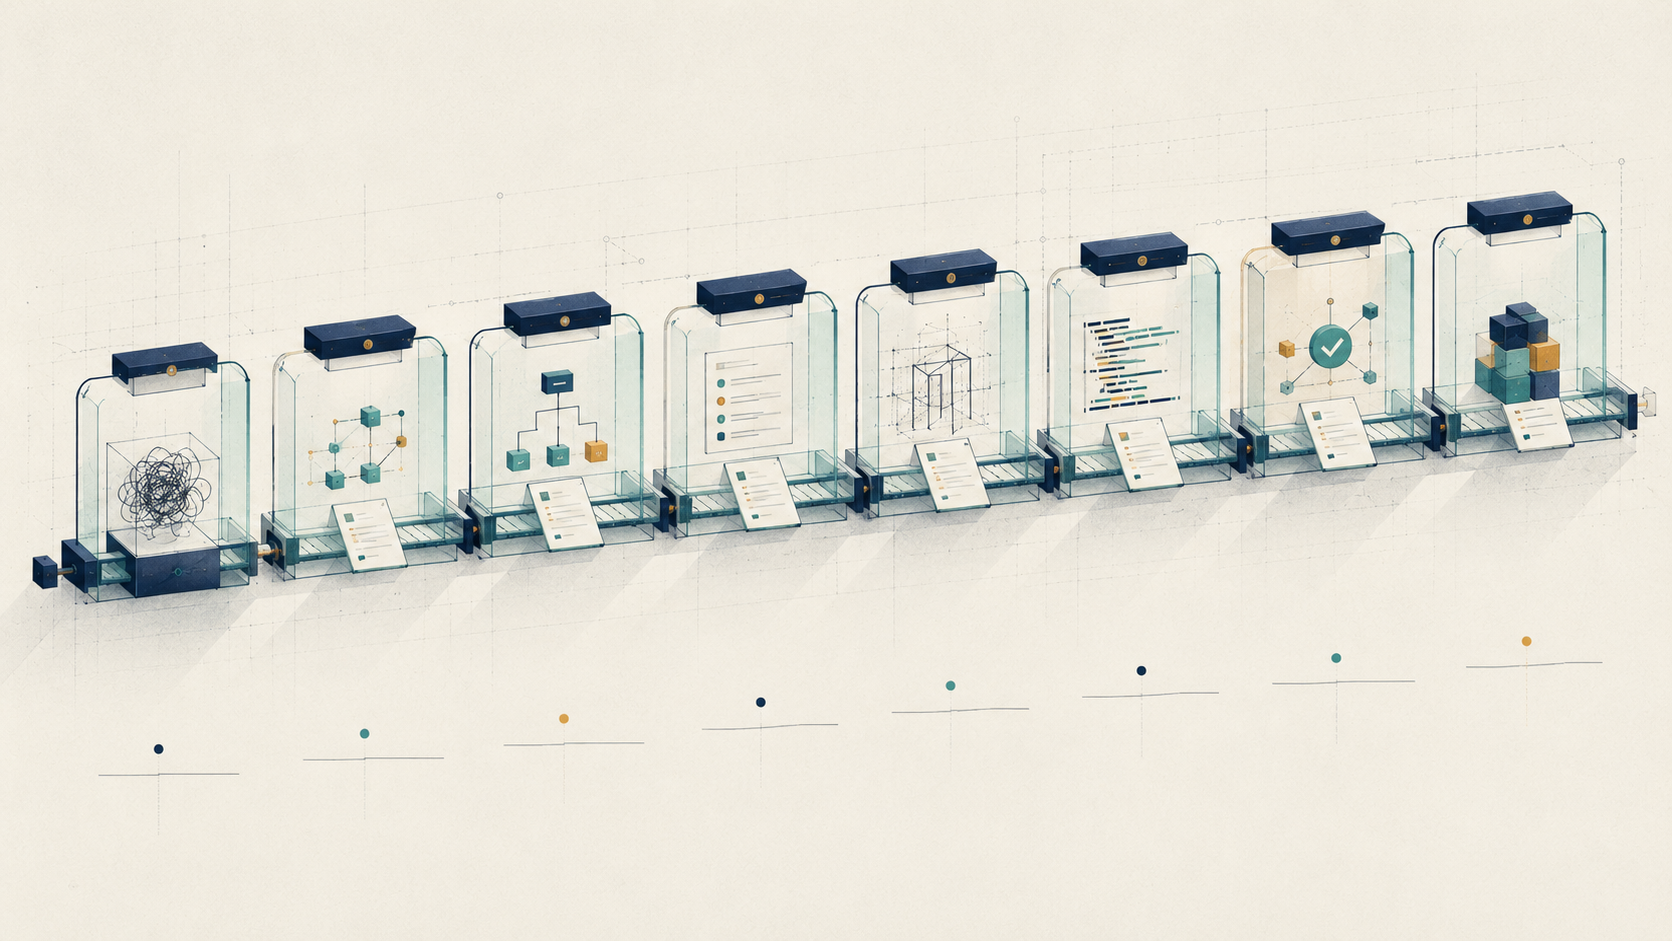
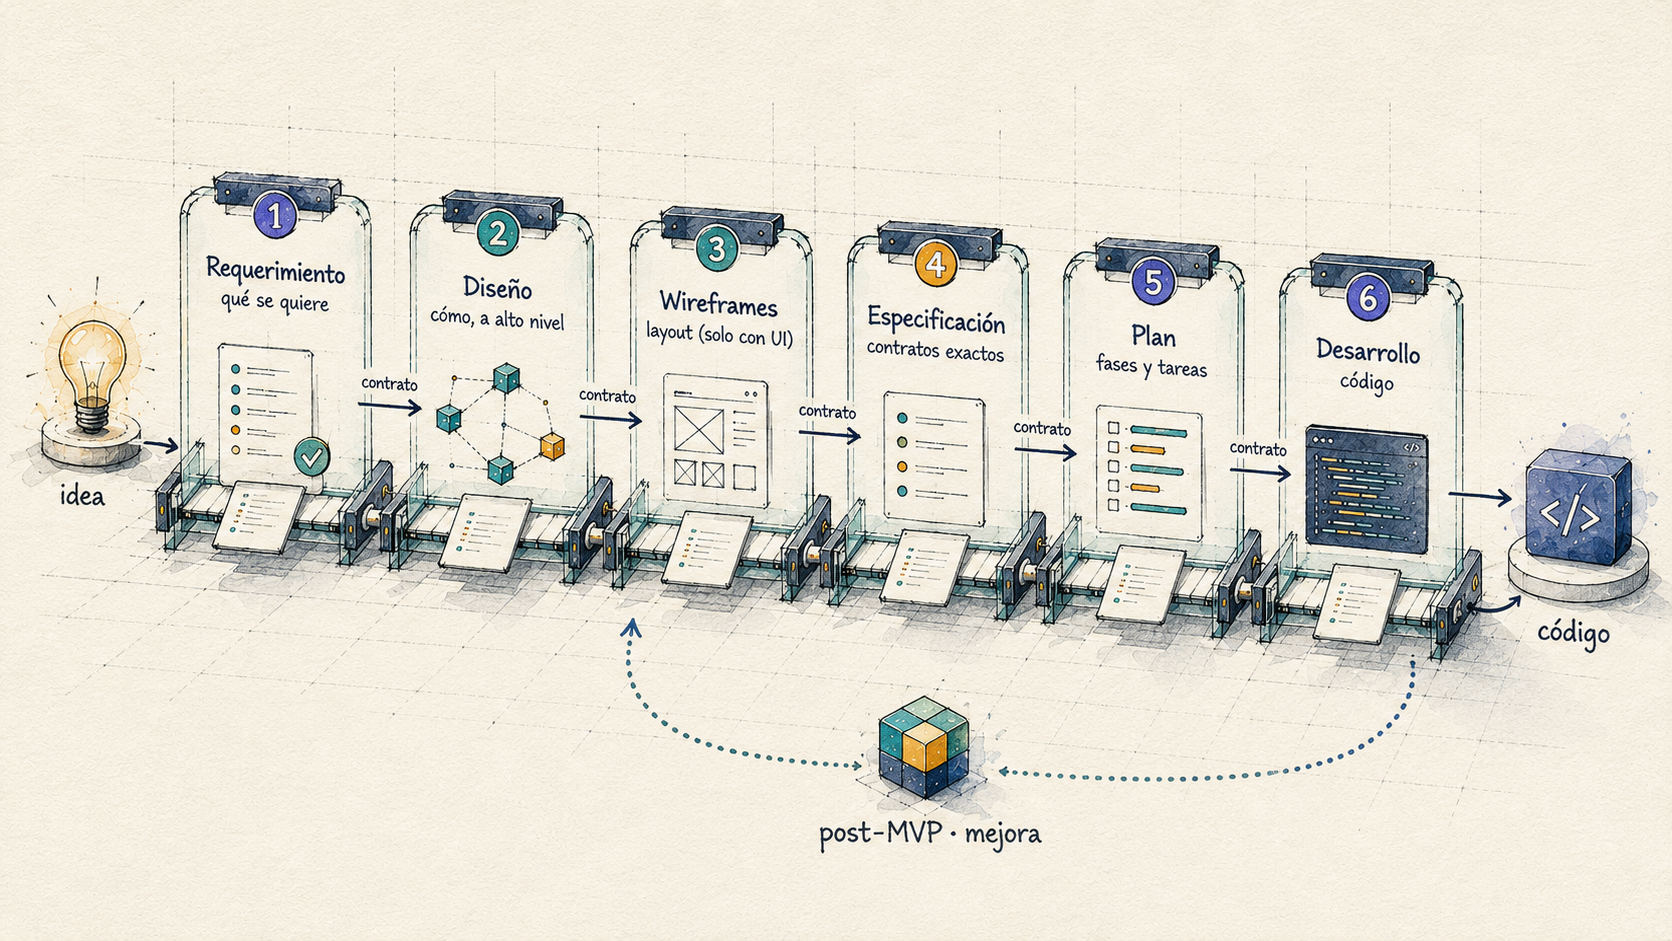
Limpia el repo de material interno y usa la imagen del pipeline
- Saca docs/assets/PROMPTS-IMAGENES.md del control de versiones (working
  doc interno; se conserva local, ahora en .gitignore)
- README: elimina los comentarios HTML con prompts de imágenes y la nota
  de mantenimiento interna
- Reemplaza el diagrama Mermaid por la nueva pipeline.png auto-explicativa
  (idea → 6 fases → código, con loop post-MVP); la tabla Consume→Produce
  queda como detalle textual

Changed region(s): [[0.0, 0.1849, 1.0, 0.7396], [0.4976, 0.7396, 0.622, 0.8937], [0.4043, 0.7705, 0.4354, 0.8013]]

diff --git a/README.md b/README.md
@@ -1,20 +1,3 @@
-<!--
-══════════════════════════════════════════════════════════════════════════════
- IMAGEN 1 · HERO / BANNER  (ancho completo, arriba de todo)
- Ubicación sugerida: docs/assets/hero.png  → descomentar la línea ![] de abajo
- PROMPT (para Midjourney / DALL·E / Ideogram — en inglés, rinde mejor):
- "Wide hero banner for an AI-assisted software development methodology called
-  'Spec-Design'. Clean editorial tech illustration: a single elegant line that
-  starts as a loose hand-drawn scribble on the left (a raw idea) and gradually
-  transforms, left to right, into crisp geometric blueprint lines and finally
-  into neat stacked code blocks on the right. Limited palette: deep indigo,
-  teal, warm amber accents on an off-white paper background, subtle blueprint
-  grid texture, fine precise linework, soft long shadows. Minimal, premium,
-  modern developer-tool aesthetic. No text. 21:9 aspect ratio, high detail."
- Alternativa estilo dibujo: misma idea pero "soft hand-drawn ink-and-watercolor
- sketch, architectural notebook style".
-══════════════════════════════════════════════════════════════════════════════
--->
 <div align="center">
 
 <img src="docs/assets/hero.png" alt="Spec-Design Harness" width="100%">
@@ -55,59 +38,9 @@ A diferencia de otras herramientas spec-driven, este harness aporta cinco cosas 
 - **🧠 Memoria trazable.** Una bitácora con referencia cruzada (`B-007 → ADR-2 / RF-5 / tarea F2-T3`) registra el porqué de cada decisión, sobreviviendo entre sesiones.
 - **🛡️ Calidad sin perder la disciplina.** Cada skill trae una tabla **anti-racionalización** (excusa → realidad) que desarma los atajos típicos del modelo. Y la calidad transversal (seguridad, accesibilidad, performance, testing) vive como **referencias consultables** + **personas de revisión** (`revisor-codigo`, `auditor-seguridad`) que el gate invoca — opcionales, sin convertir el harness en un catálogo.
 
-<!--
-══════════════════════════════════════════════════════════════════════════════
- IMAGEN 2 · DIAGRAMA DEL PIPELINE  (el visual central — va aquí)
- Ubicación sugerida: docs/assets/pipeline.png
- PROMPT (en inglés):
- "Clean isometric technical illustration of a software pipeline drawn as an
-  assembly line of connected translucent glass panels, left to right, 8 stations.
-  Each station is a distinct labeled module representing a phase of work that
-  hands a document to the next. Style: editorial developer-tool aesthetic, thin
-  precise linework, limited palette of deep indigo + teal + warm amber on
-  off-white, subtle blueprint grid in the background, soft long shadows, gentle
-  depth. Leave clear empty space under each station for a caption. No readable
-  text inside the art. 16:9, premium, high detail."
- Alternativa dibujo: "hand-drawn architect's notebook diagram, ink lines with
-  light watercolor fills, arrows connecting labeled boxes".
-══════════════════════════════════════════════════════════════════════════════
--->
 ## 🌟 El pipeline
 
 <p align="center"><img src="docs/assets/pipeline.png" alt="El pipeline de fases" width="820"></p>
-
-```mermaid
-flowchart TD
-    idea([💡 idea cruda]) --> init([⚙️ iniciar-harness])
-    init --> f1
-
-    subgraph DOC ["📐 DOCUMENTACIÓN · altitud decreciente"]
-        direction TB
-        f1["1 · refinar-requerimiento — qué se quiere"]
-        f2["2 · documento-diseno — cómo, a alto nivel"]
-        f3["3 · wireframes (solo con UI) — layout y navegación"]
-        f4["4 · especificacion-tecnica — contratos exactos"]
-        f1 --> f2 --> f3 --> f4
-    end
-
-    subgraph BUILD ["🔨 CONSTRUCCIÓN"]
-        direction TB
-        f5["5 · plan-implementacion — Fases → Tareas + control"]
-        f6["6 · desarrollo — 💻 código"]
-        f5 --> f6
-    end
-
-    f4 --> f5
-    f6 --> bl[("BACKLOG.md · cola viva del producto")]
-    bl -.->|"/mejora · rigor adaptativo (tracks A/B/C/D)"| f2
-
-    classDef doc fill:#eef2ff,stroke:#4f46e5,color:#1e1b4b;
-    classDef build fill:#ecfeff,stroke:#0d9488,color:#134e4a;
-    classDef anchor fill:#fef3c7,stroke:#b45309,color:#7c2d12;
-    class f1,f2,f3,f4 doc;
-    class f5,f6 build;
-    class idea,init,bl anchor;
-```
 
 <sub>Cada flecha es un **handoff con contrato fijo**: lo que una fase produce es exactamente lo que la siguiente consume. La fase de wireframes se omite sola si el proyecto no tiene UI (CLI, API, librería). El ciclo post-MVP (línea punteada) reaplica solo las fases que el cambio necesita.</sub>
 
@@ -126,21 +59,6 @@ La cadena de contratos: cada fase **consume** el artefacto de la anterior y **pr
 | fase 6 | `desarrollo` | plan + contratos | código + seguimiento/bitácora |
 | post-MVP | `mejora` | `BACKLOG.md` | router adaptativo (tracks A/B/C/D) + gate humano |
 
-<!--
-══════════════════════════════════════════════════════════════════════════════
- IMAGEN 3 · SEPARACIÓN POR ALTITUDES  (junto a la sección "Cómo funciona")
- Ubicación sugerida: docs/assets/altitudes.png
- PROMPT (en inglés):
- "Conceptual illustration of 'separation by altitude' in software design: a
-  cross-section of layered horizontal strata, like a clean geological diagram or
-  a stack of floating translucent platforms at different heights. Top layer = a
-  light cloud / idea; descending layers become progressively more structured:
-  wireframe grids, then typed contracts, then an ordered task list, then solid
-  code at the bottom. A single thin vertical line connects all layers, showing
-  decisions flowing top-down only. Editorial tech style, indigo-teal-amber on
-  off-white, fine linework, soft shadows, no text. 4:3, premium, high detail."
-══════════════════════════════════════════════════════════════════════════════
--->
 ## 🧭 Cómo funciona
 
 <p align="center"><img src="docs/assets/altitudes.png" alt="Separación por altitudes" width="680"></p>
@@ -200,21 +118,6 @@ cp -R harness-skills-kit/skills/. tu-proyecto/.claude/skills/
 
 En cada fase de diseño, la skill te deja un archivo `preguntas-*.md`. Lo respondes, le avisas, y la skill integra tus respuestas antes de cerrar. Nada avanza sobre suposiciones.
 
-<!--
-══════════════════════════════════════════════════════════════════════════════
- IMAGEN 4 · CICLO POST-MVP / RIGOR ADAPTATIVO  (en la sección de mejoras)
- Ubicación sugerida: docs/assets/ciclo-mejoras.png
- PROMPT (en inglés):
- "Illustration of an adaptive improvement loop for software. Center: a circular
-  flow arrow returning a finished product (a small built cube) back into a
-  funnel. The funnel sorts incoming improvement requests into four lanes of
-  increasing rigor, labeled A B C D, each lane visibly longer and more detailed
-  than the previous (A = a single short step, D = a full multi-step pipeline).
-  A small human-hand 'approval gate' icon sits before the build stage. Editorial
-  tech style, indigo-teal-amber on off-white, thin linework, soft shadows, room
-  for captions, no readable text. 16:9, premium, high detail."
-══════════════════════════════════════════════════════════════════════════════
--->
 ## ♻️ Después del MVP: mejoras con rigor adaptativo
 
 <p align="center"><img src="docs/assets/ciclo-mejoras.png" alt="Ciclo de mejoras post-MVP" width="820"></p>
@@ -279,12 +182,3 @@ Las propuestas de mejora al harness se discuten en *issues*. Si usas el kit en u
 ## 📄 Licencia
 
 MIT — ver [`LICENSE`](LICENSE).
-
-<!--
-NOTA DE MANTENIMIENTO (no publicar / borrar antes de hacer público si se prefiere):
-- Idioma: el README está en español por coherencia con el kit (skills, comandos y
-  artefactos en español). Para alcance internacional, evaluar un README.en.md espejo.
-- Imágenes: 4 placeholders arriba (hero, pipeline, altitudes, ciclo-mejoras) con su
-  prompt. Generarlas, guardarlas en docs/assets/ y descomentar la línea ![] de cada una.
-  Mantener una sola paleta (indigo / teal / amber sobre off-white) en las 4 para coherencia.
--->